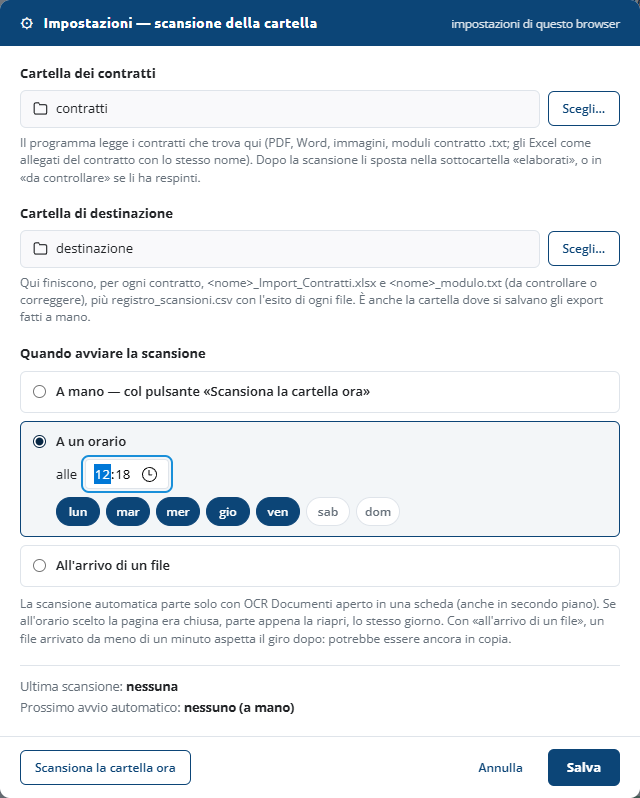
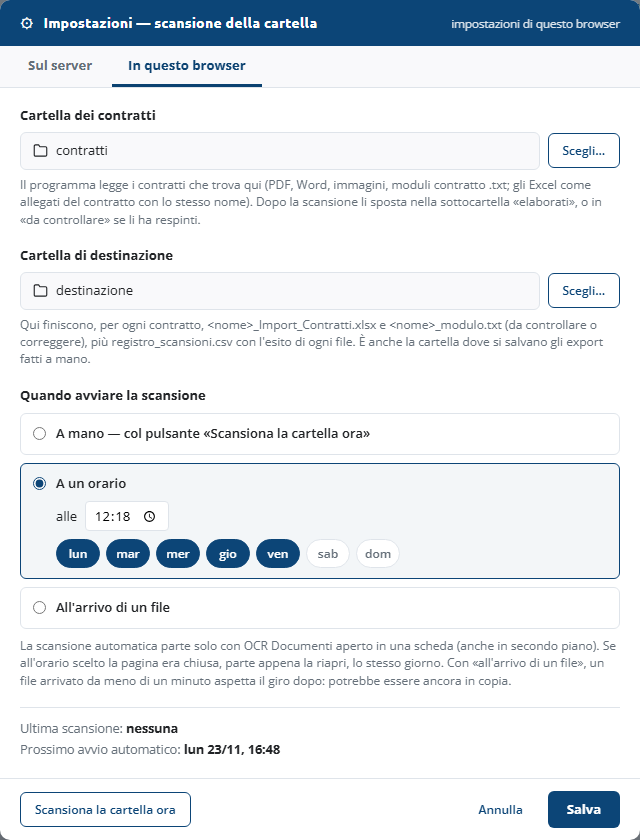
docs(ocr): guida e README della scansione sul server e della scheda video
Cosa: guida, capitolo 7 riscritto con le due schede di ⚙ Impostazioni («Sul server» in ogni
browser e a pagina chiusa, impostata dall'amministratore; «In questo browser» solo Chrome/Edge),
cosa legge il server da solo e cosa resta nella cartella; immagine nuova 22-scansione-server
e 16-impostazioni rifatta con le linguette. Capitolo 5: percorso che non esiste sul server,
file lasciati in giallo. Capitolo 6: scheda video (0,7 s/pagina, .venv-cu129 sulle RTX serie
50) e dove stanno le impostazioni della cartella. README: scansione sul server, variabile
OCR_CARTELLA_DIR, misure della GPU e del banco.

Perché: ogni funzione nuova aggiorna la guida nello stesso blocco.

Verifica: immagini fatte con Playwright sulla pagina compilata, su un backend di prova
senza login, dopo una scansione vera di due contratti del banco.

diff --git a/ocr-documenti/docs/guida/07-scansione-cartella.md b/ocr-documenti/docs/guida/07-scansione-cartella.md
@@ -4,22 +4,54 @@
 [← Indice](README.md)
 
 Invece di trascinare i contratti uno per uno, puoi dire al programma **in quale
-cartella del tuo PC arrivano** e **dove mettere i risultati**: li legge da solo, a mano
-con un clic, a un orario o appena arriva un file nuovo.
+cartella arrivano** e **dove mettere i risultati**: li legge da solo, a mano con un
+clic, a un orario o appena arriva un file nuovo.
 
-> **Serve Chrome o Edge.** Solo questi browser permettono a un programma di leggere e
-> scrivere in una cartella del PC. In Firefox la finestra lo dice e i pulsanti restano
-> spenti: apri OCR Documenti in Chrome o Edge.
+Premi **⚙ Impostazioni** in alto a destra. La finestra ha due schede:
 
-## 7.1 Le impostazioni
+| Scheda | Chi legge la cartella | Browser | Quando parte | Chi la imposta |
+|---|---|---|---|---|
+| **Sul server** | il server di OCR Documenti | tutti, anche **Firefox** | anche a **pagina chiusa** | l'amministratore del programma |
+| **In questo browser** | la pagina, sul tuo PC | solo **Chrome** o **Edge** | solo a pagina aperta | ognuno per sé |
 
-Premi **⚙ Impostazioni** in alto a destra.
+In Firefox la finestra si apre direttamente su **Sul server**, perché Firefox non
+permette a una pagina di leggere le cartelle del PC.
 
-![La finestra Impostazioni: cartelle, orario e giorni](img/16-impostazioni.png)
+## 7.1 Sul server (in ogni browser, anche a pagina chiusa)
 
-1. **Cartella dei contratti** → **Scegli…**: la cartella dove arrivano i contratti
-   (PDF, Word, immagini, moduli contratto `.txt`). Gli Excel con l'elenco prezzi vengono
-   presi insieme al contratto con lo stesso nome.
+![La scheda Sul server dopo una scansione: due contratti elaborati, una foto lasciata nella cartella](img/22-scansione-server.png)
+
+Le cartelle sono quelle del **PC dove gira OCR Documenti** (vanno bene anche le
+cartelle di rete, per esempio `\\server\Contratti\Da leggere`). Per questo le imposta
+solo l'**amministratore** del programma: gli altri utenti vedono solo se la scansione è
+attiva e come parte.
+
+1. Scrivi il percorso completo della **Cartella dei contratti** e della **Cartella di
+   destinazione**. Il programma controlla che esistano e che siano diverse; se c'è un
+   errore lo dice in rosso (*«… non esiste sul PC dove gira OCR Documenti»*).
+2. **Quando avviare la scansione**: a mano, a un orario (con i giorni) o all'arrivo di un
+   file (ogni quanti minuti guardare la cartella). L'orologio è quello del server: la
+   scansione parte anche se nessuno ha la pagina aperta.
+3. **Salva**, oppure **Scansiona ora** per salvare e partire subito.
+
+Sotto vedi l'avanzamento mentre lavora (*In corso: nome del contratto — OCR pagina 4/20*),
+l'esito dell'ultima scansione, il prossimo avvio e gli ultimi contratti con il loro esito
+e il numero di voci. La finestra si aggiorna da sola ogni pochi secondi.
+
+**Cosa legge il server da solo**: i **PDF** (anche scansionati), i **PDF firmati
+`.p7m`** e i **moduli contratto `.txt`**. Gli **Excel** e il **Word** con un nome simile
+al PDF vanno con lui, come allegati e come bozza da confrontare (come nella coda). Le
+**immagini**, i **Word senza PDF** e i file `.doc` restano nella cartella: la finestra li
+elenca in giallo (*Restano nella cartella, da caricare dalla pagina*) e li carichi
+trascinandoli nella pagina come sempre.
+
+## 7.2 In questo browser (Chrome o Edge)
+
+![La scheda In questo browser: cartelle, orario e giorni](img/16-impostazioni.png)
+
+1. **Cartella dei contratti** → **Scegli…**: la cartella del tuo PC dove arrivano i
+   contratti (PDF, Word, immagini, moduli contratto `.txt`). Gli Excel con l'elenco
+   prezzi vengono presi insieme al contratto con lo stesso nome.
 2. **Cartella di destinazione** → **Scegli…**: dove il programma scrive i risultati.
    Diventa anche la cartella dove si salvano gli export fatti a mano.
 3. **Quando avviare la scansione**:
@@ -32,40 +64,49 @@ Premi **⚙ Impostazioni** in alto a destra.
 
 Le impostazioni sono **tue**: ogni utente del Portale ha le sue cartelle e il suo orario.
 
-## 7.2 Cosa succede a ogni scansione
+## 7.3 Cosa succede a ogni scansione
 
 Per ogni contratto trovato nella cartella il programma fa lo stesso giro di
-**Elabora → Excel** (lo vedi scorrere nella coda), poi:
+**Elabora → Excel** (nella scheda del browser lo vedi scorrere nella coda), poi:
 
 | Dove | Cosa trovi |
 |---|---|
 | Cartella di destinazione | `<nome>_Import_Contratti.xlsx`, `<nome>_modulo.txt` (da controllare o correggere) e `registro_scansioni.csv`: data, ora, file, esito, numero di voci e il motivo se respinto |
 | Cartella dei contratti → **elaborati** | i contratti letti, con il loro Excel di allegato e la bozza Word se c'erano |
-| Cartella dei contratti → **da controllare** | i contratti che il programma ha respinto: il motivo è nel registro e nella colonna *Esito* della coda |
+| Cartella dei contratti → **da controllare** | i contratti che il programma ha respinto: il motivo è nel registro (e nella colonna *Esito* della coda, o tra gli ultimi esiti della scheda *Sul server*) |
+
+L'Excel e il modulo sono **gli stessi** nelle due schede: stesso programma di lettura,
+stesse celle rosse per i codici fuori elenco.
 
 I contratti **firmati digitalmente** (`.pdf.p7m`) si leggono come gli altri (vedi
 [2.5](02-contratto-excel.md#25-contratti-firmati-digitalmente-p7m)): in *elaborati*
 finisce il `.p7m` originale, quello con valore legale, e nel registro la colonna delle
-note riporta l'esito della firma (*Firma valida: …*). Un `.p7m` che non si apre resta
-nella cartella e il motivo compare in alto.
+note riporta l'esito della firma (*Firmato .p7m — …*).
 
-Il riquadro verde in alto riassume l'esito (*1 elaborato, 0 da controllare*); se qualcosa
-è stato respinto il riquadro è rosso e dice dove guardare. Un file `.txt` che non è un
-modulo contratto e i file di altri tipi restano dove sono. Niente viene sovrascritto: se
+Un file `.txt` che non è un modulo contratto resta dov'è. Niente viene sovrascritto: se
 in *elaborati* c'è già un file con lo stesso nome, il nuovo diventa `nome (2).pdf`.
 
-## 7.3 La scansione automatica
+## 7.4 La scansione automatica
+
+**Sul server** parte da sola all'orario o all'arrivo di un file, con la pagina aperta o
+chiusa. Con **all'arrivo di un file**, un file comparso da meno di un minuto aspetta il
+giro dopo, perché potrebbe essere ancora in copia dallo scanner o dalla rete. Se la
+cartella non si raggiunge più (disco di rete scollegato) la scheda lo scrive in rosso e
+la scansione riprova al giro dopo.
+
+**In questo browser**:
 
 ![In alto: il pulsante Impostazioni e l'indicatore della cartella](img/17-chip-cartella.png)
 
 - In alto compare **Cartella · prossima gio 12:18**: la scansione automatica è attiva
   e ti dice quando parte.
 - Parte **solo se OCR Documenti è aperto** in una scheda di Chrome o Edge (anche in
-  secondo piano o ridotta a icona). A browser chiuso non parte.
+  secondo piano o ridotta a icona). A browser chiuso non parte: per questo c'è la scheda
+  *Sul server*.
 - **A un orario**: se a quell'ora la pagina era chiusa, parte appena la riapri, lo
   stesso giorno.
-- **All'arrivo di un file**: un file comparso da meno di un minuto aspetta il giro
-  dopo, perché potrebbe essere ancora in copia dallo scanner o dalla rete.
+- **All'arrivo di un file**: come sul server, un file arrivato da meno di un minuto
+  aspetta il giro dopo.
 - Se in alto leggi **Cartella · in pausa**, il browser vuole di nuovo il permesso:
   apri **⚙ Impostazioni** e premi **Riattiva**.
 - Se stai già elaborando altri documenti, la scansione automatica aspetta che tu finisca.

diff --git a/ocr-documenti/README.md b/ocr-documenti/README.md
@@ -46,6 +46,7 @@ Pipeline ibrida:
 | `OLLAMA_BASE` | `http://localhost:11434` | endpoint Ollama |
 | `ASSIST_MODEL` | `qwen2.5:3b` | modello assist |
 | `OCR_CACHE` | `1` | `0` spegne la cache dei blocchi OCR (`.ocr-cache/`, per hash di pagina) |
+| `OCR_CARTELLA_DIR` | `./_cartella` | impostazioni della scansione della cartella **sul server** (`impostazioni.json`, `server/cartella.ts`) |
 | `OCR_DIR_BANCO` | `./contratti` | cartella del banco di prova: lì «★ Salva come riferimento» (Modifica, solo admin, `POST /api/riferimenti`) copia il PDF e scrive il modulo di riferimento in `moduli-da-md/` (`server/riferimenti.ts`) |
 | `OCR_BIND_HOST` | `127.0.0.1` | interfaccia del backend; se non locale (o `NODE_ENV=production`) il gate SSO del portale si attiva anche qui |
 | `PADDLE_INSECURE_SSL` | auto | `1`/`0` forza/vieta il download dei modelli senza verifica dei certificati (reti con ispezione SSL). Auto = solo finché `~/.paddlex` non esiste |
@@ -180,7 +181,23 @@ scrive in chat. Il modulo incollato nell'app passa da `moduloDaRisposta` → `le
 
 ## Scansione automatica di una cartella (⚙ Impostazioni)
 
-Nel browser, con la File System Access API (**solo Chrome/Edge**): l'utente sceglie la
+Due schede nella finestra ⚙: **Sul server** (dal 23/11/2026) e **In questo browser**.
+
+**Sul server** ([server/cartella.ts](server/cartella.ts), scheda [src/ScansioneServer.tsx](src/ScansioneServer.tsx)):
+il server legge una cartella del PC dove gira, con un orologio suo (ogni 30 s): funziona in
+ogni browser, anche Firefox, e anche a pagina chiusa. Percorsi completi (anche di rete),
+impostati solo dall'admin dell'app (`GET/PUT /api/cartella`, `POST /api/cartella/avvia`;
+chi non è admin vede solo se è attiva) e salvati in `_cartella/impostazioni.json`. Ogni PDF
+diventa un lavoro lato server (`creaLavoro` + `ricevutoFile`, stessa filiera e cache di
+«Elabora → Excel»), le buste `.p7m` si aprono col motore comune, i moduli `.txt` si leggono
+alla lettera; Excel e bozza Word col nome simile vanno col PDF (`nomiSimili`). L'Excel è lo
+stesso del browser (`byteImportContrattiXlsx`), come il modulo e il registro. Immagini, Word
+senza PDF e `.doc` restano nella cartella e la scheda li elenca. Regole comuni (quando partire,
+nomi liberi, registro) in [src/lib/regole-cartella.ts](src/lib/regole-cartella.ts); test in
+`server/__tests__/cartella.test.ts`. Provato dal vivo su due contratti del banco (Eureka 4 voci,
+Consulenza 1 voce) con la cache OCR del banco.
+
+**In questo browser**: con la File System Access API (**solo Chrome/Edge**): l'utente sceglie la
 cartella dei contratti e quella di destinazione sul suo PC e il modo di avvio (a mano, a
 un orario nei giorni scelti, all'arrivo di un file con controllo ogni N minuti). Regole,
 accesso alle cartelle e memoria in [src/lib/scansione-cartella.ts](src/lib/scansione-cartella.ts)
@@ -199,9 +216,14 @@ accesso alle cartelle e memoria in [src/lib/scansione-cartella.ts](src/lib/scans
   selettore: a mano, all'arrivo (preso dopo 120 s), all'orario (dopo 33 s).
 
 **GPU RTX serie 50**: paddlepaddle-gpu cu126 non le supporta e legge le pagine vuote senza
-errori. Il worker se ne accorge all'avvio (`prova_lettura` in `ocr_worker.py`) e passa alla
-CPU, più lenta (~35 s/pagina). Per tornare alla GPU serve un paddle per CUDA 12.8 o
-successivo (indice `cu129`).
+errori (il worker se ne accorge all'avvio, `prova_lettura` in `ocr_worker.py`, e passa alla
+CPU, ~35 s/pagina). Dal 23/11/2026 c'è `.venv-cu129` con paddlepaddle-gpu 3.3.1 per CUDA 12.9:
+`avvia.bat` la crea sui PC con una RTX serie 50 e il server la preferisce alle altre
+(`server/config.ts`). Misura su RTX 5060 Ti 16 GB: **0,7 s/pagina** (prima ~35), testo uguale
+al 99,8% a quello della CPU; banco intero (825 pagine) riletto in 281 s, risultato 417/425 ·
+798/948 · 824/948 contro 417 · 799 · 825 con la lettura della CPU (una voce di differenza).
+Processi in parallelo (`PADDLE_WORKERS`) su 52 pagine, avvio dei modelli compreso: 1 → 24 s,
+2 → 19 s, 3 → 20 s; resta 3.
 
 ## Export Import_Contratti (regole)
 

diff --git a/ocr-documenti/docs/guida/06-amministratore.md b/ocr-documenti/docs/guida/06-amministratore.md
@@ -11,6 +11,16 @@ Dettagli tecnici nel [README](../../README.md).
 scansioni (al primo avvio scarica i modelli, ~30 MB); Ollama facoltativo per
 l'Assist AI (`ollama pull qwen2.5:3b`).
 
+**Scheda video.** Con una scheda NVIDIA l'OCR legge una pagina in meno di un secondo
+invece di circa 35 (misura del 23/11/2026 su RTX 5060 Ti: 0,7 s/pagina, testo uguale a
+quello letto senza scheda). Le schede **RTX serie 50** vogliono il PaddleOCR per CUDA 12.9:
+`avvia.bat` lo installa da solo al primo avvio nella cartella `.venv-cu129` (circa 3 GB
+da scaricare); le schede più vecchie usano `.venv-gpu`. In `avvio.log` la riga
+*PaddleOCR GPU (CUDA 12.9) pronto* dice che la scheda è in uso; nella pagina il motore
+compare come *PP-OCRv5, GPU*. Se l'installazione non riesce il programma usa il
+processore, più lento ma con lo stesso risultato: per ritentare si cancella la cartella
+e si riavvia.
+
 **Firma digitale (.p7m).** I contratti firmati li apre e li verifica il motore
 comune della suite `shared\firma` (ambiente Python suo, elenchi ufficiali degli enti
 certificatori scaricati in `shared\firma\cache`). `avvia.bat` lo installa da solo
@@ -85,6 +95,13 @@ non firmate del venv (`WinError 4551`). Non si risolve reinstallando: serve l'IT
 RIPARTIZIONE COMMESSE, Piano dei conti, famiglie e sottofamiglie,
 `cond_pagamento.json`. Un file aggiornato viene riletto da solo; in alternativa
 si riavvia il programma. Sono dati aziendali: tenerli aggiornati evita le celle rosse.
+
+**Scansione della cartella sul server** ([7.1](07-scansione-cartella.md#71-sul-server-in-ogni-browser-anche-a-pagina-chiusa)).
+La imposta l'amministratore dalla scheda *Sul server* di ⚙ Impostazioni; le impostazioni
+stanno in `_cartella/impostazioni.json` (o nella cartella `OCR_CARTELLA_DIR`). I contratti
+letti risultano lavori dell'amministratore che ha salvato le impostazioni. Le cartelle
+devono essere raggiungibili dall'utente Windows con cui gira OCR Documenti (per le
+cartelle di rete: permessi di lettura e scrittura a quell'utente).
 
 **Dati.** I lavori in corso stanno in `_lavori/` (o nella cartella `LAVORI_DIR`)
 e ripartono dopo un riavvio; la cache della lettura in `.ocr-cache/`

diff --git a/ocr-documenti/docs/guida/05-problemi.md b/ocr-documenti/docs/guida/05-problemi.md
@@ -33,6 +33,8 @@
 | La scheda **Originale** è vuota | Il browser non riesce a mostrare il PDF dentro la pagina: usa **⋮ → Apri in un'altra finestra**. |
 | Un contratto della coda è in rosso | Leggi il motivo sulla riga; gli altri vanno avanti. Rifallo con **Scansiona**. |
 | Risultato vecchio senza tabella articoli | Rileggi il documento (**Rifai da capo**): **Riprocessa** non basta. |
+| Nella scheda **Sul server** di ⚙: «… non esiste sul PC dove gira OCR Documenti» | Il percorso va scritto com'è sul PC del server (es. `D:\Contratti\Da leggere` o `\server\Contratti`), non come lo vedi dal tuo PC se è diverso. Chiedi all'amministratore. |
+| Nella scheda **Sul server**, in giallo: «Restano nella cartella, da caricare dalla pagina» | Sono file che il server non legge da solo (immagini, Word senza PDF, .doc): trascinali nella pagina come sempre. |
 | Gli Excel finiscono nei Download invece che nella cartella scelta | Il browser non permette di scegliere la cartella (solo Chrome/Edge lo fanno). |
 | La pagina non risponde | Ricarica; se non basta, riavvia OCR Documenti dal Portale. |
 

diff --git a/ocr-documenti/docs/guida/README.md b/ocr-documenti/docs/guida/README.md
@@ -30,7 +30,7 @@ Dal **Portale** della suite Cosedil, scheda *OCR Documenti* (vedi la
 4. [Formati di uscita, modalità Claude e modulo contratto](04-formati-e-claude.md) — il modulo da compilare a mano quando il contratto non si legge
 5. [Se qualcosa non va](05-problemi.md)
 6. [Per l'amministratore di sistema](06-amministratore.md)
-7. [Scansione automatica di una cartella](07-scansione-cartella.md) — pulsante ⚙ Impostazioni: cartella dei contratti, destinazione, a mano / a un orario / all'arrivo di un file (Chrome o Edge)
+7. [Scansione automatica di una cartella](07-scansione-cartella.md) — pulsante ⚙ Impostazioni: cartella dei contratti, destinazione, a mano / a un orario / all'arrivo di un file; sul server (ogni browser, anche Firefox, anche a pagina chiusa) o in questo browser (Chrome o Edge)
 
 ## Il flusso in tre passi
 
